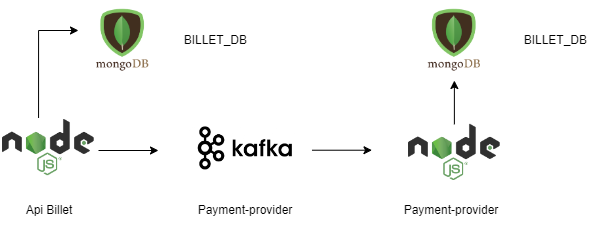
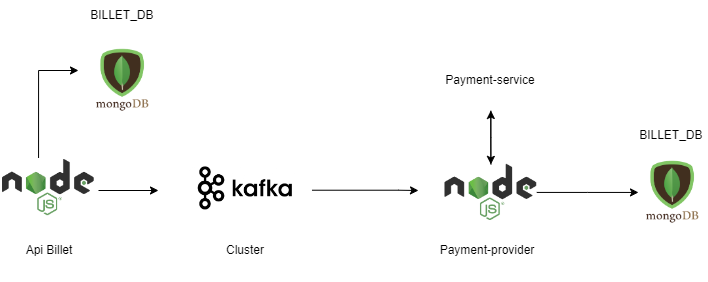
ajuste

diff --git a/README.md b/README.md
@@ -4,3 +4,16 @@
 A solução encontrada é exemplificada no seguinte fluxo abaixo:
 
 ![App Screenshot](./screenshots/arch.png)
+
+## Elementos
+
+- Api Billet:
+    - Desenvolvida em NodeJs + express, responsável por receber as requisições POST /billet para executar um pagamento de boleto e também GET /billet/{uuid} para recuperar informações sobre um boleto 
+- Cluster kafka:
+    - Container docker usado como cluster para conter os brokers que receberam as mensagens dos producers e posteriormente guardadas em disco.
+- Payment-provider:
+    - Container docker rodando uma imagem nodeJs que contem o consumer, resposável por receber as mensagens publicadas no tópico billet e fazer as requisições para o serviço que realiza o pagamento de boleto.
+- Payment-service:
+    - Mock responsável por simular a resposta do pagamento de um boleto.
+- BILLET-DB
+    - Banco de dados responsável por armazenar as informações referentes ao pagamento dos boletos.
